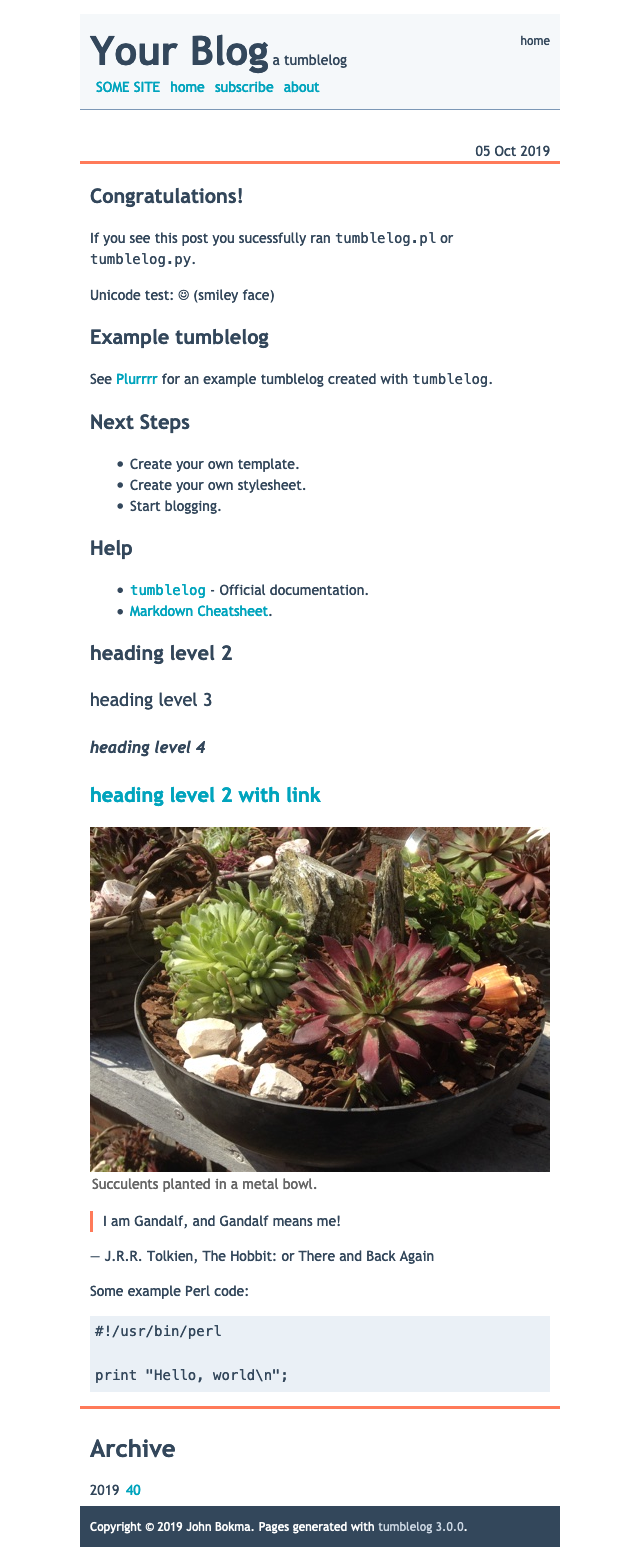
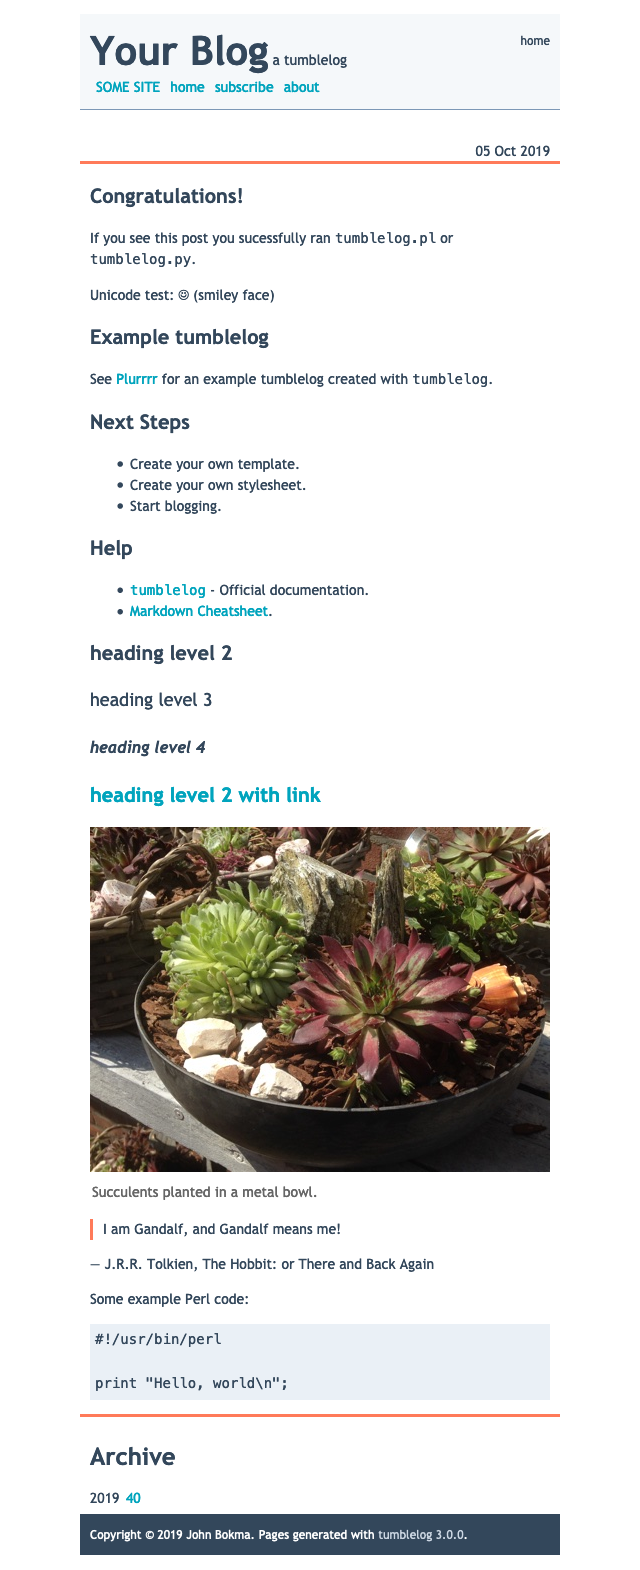
october: fix figcaption padding

diff --git a/styles/october.scss b/styles/october.scss
@@ -96,7 +96,7 @@ figure {
     }
     figcaption {
         color: #666;
-        padding: 2px;
+        padding: 10px 2px 2px 2px;
         border-radius: 0 0 $border-radius $border-radius;
         margin-bottom: 1em;
     }
